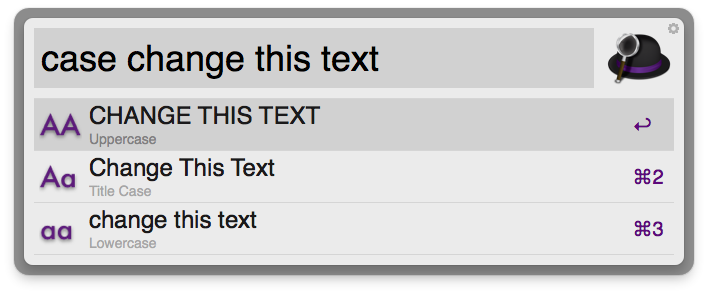
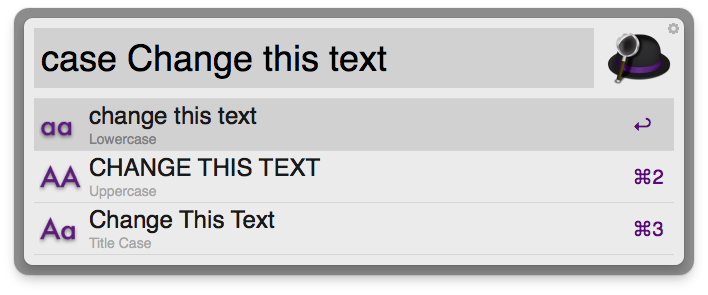
Remove `uid` from returned items.
Always sorts the case styles the same way in Alfred now, since Alfred
2.0.3 will generate a UID on the fly now and respect the order of items
returned from script filters.

diff --git a/changecase.py b/changecase.py
@@ -34,17 +34,17 @@ variations = {
 
 print """<?xml version="1.0"?>
 <items>
-  <item uid="changecase-lower" arg="%(lower)s">
+  <item arg="%(lower)s">
     <title>%(lower)s</title>
     <subtitle>Lowercase</subtitle>
     <icon>lowercase.png</icon>
   </item>
-  <item uid="changecase-upper" arg="%(upper)s">
+  <item arg="%(upper)s">
     <title>%(upper)s</title>
     <subtitle>Uppercase</subtitle>
     <icon>uppercase.png</icon>
   </item>
-  <item uid="changecase-title" arg="%(title)s">
+  <item arg="%(title)s">
     <title>%(title)s</title>
     <subtitle>Title Case</subtitle>
     <icon>titlecase.png</icon>

diff --git a/README.md b/README.md
@@ -14,6 +14,10 @@ Optionally, any text typed after `case` will be changed instead of the clipboard
 
 ## Version History
 
+### 4/19/2013
+
+- Always sorts the case styles in the same order now: lowercase, uppercase, then title case. (Removed the `uid` from results returned to Alfred as supported in Alfred 2.0.3.)
+
 ### 4/6/2013
 
 - Title case will now leave common acronyms as uppercase (HTML, XML, etc.).
